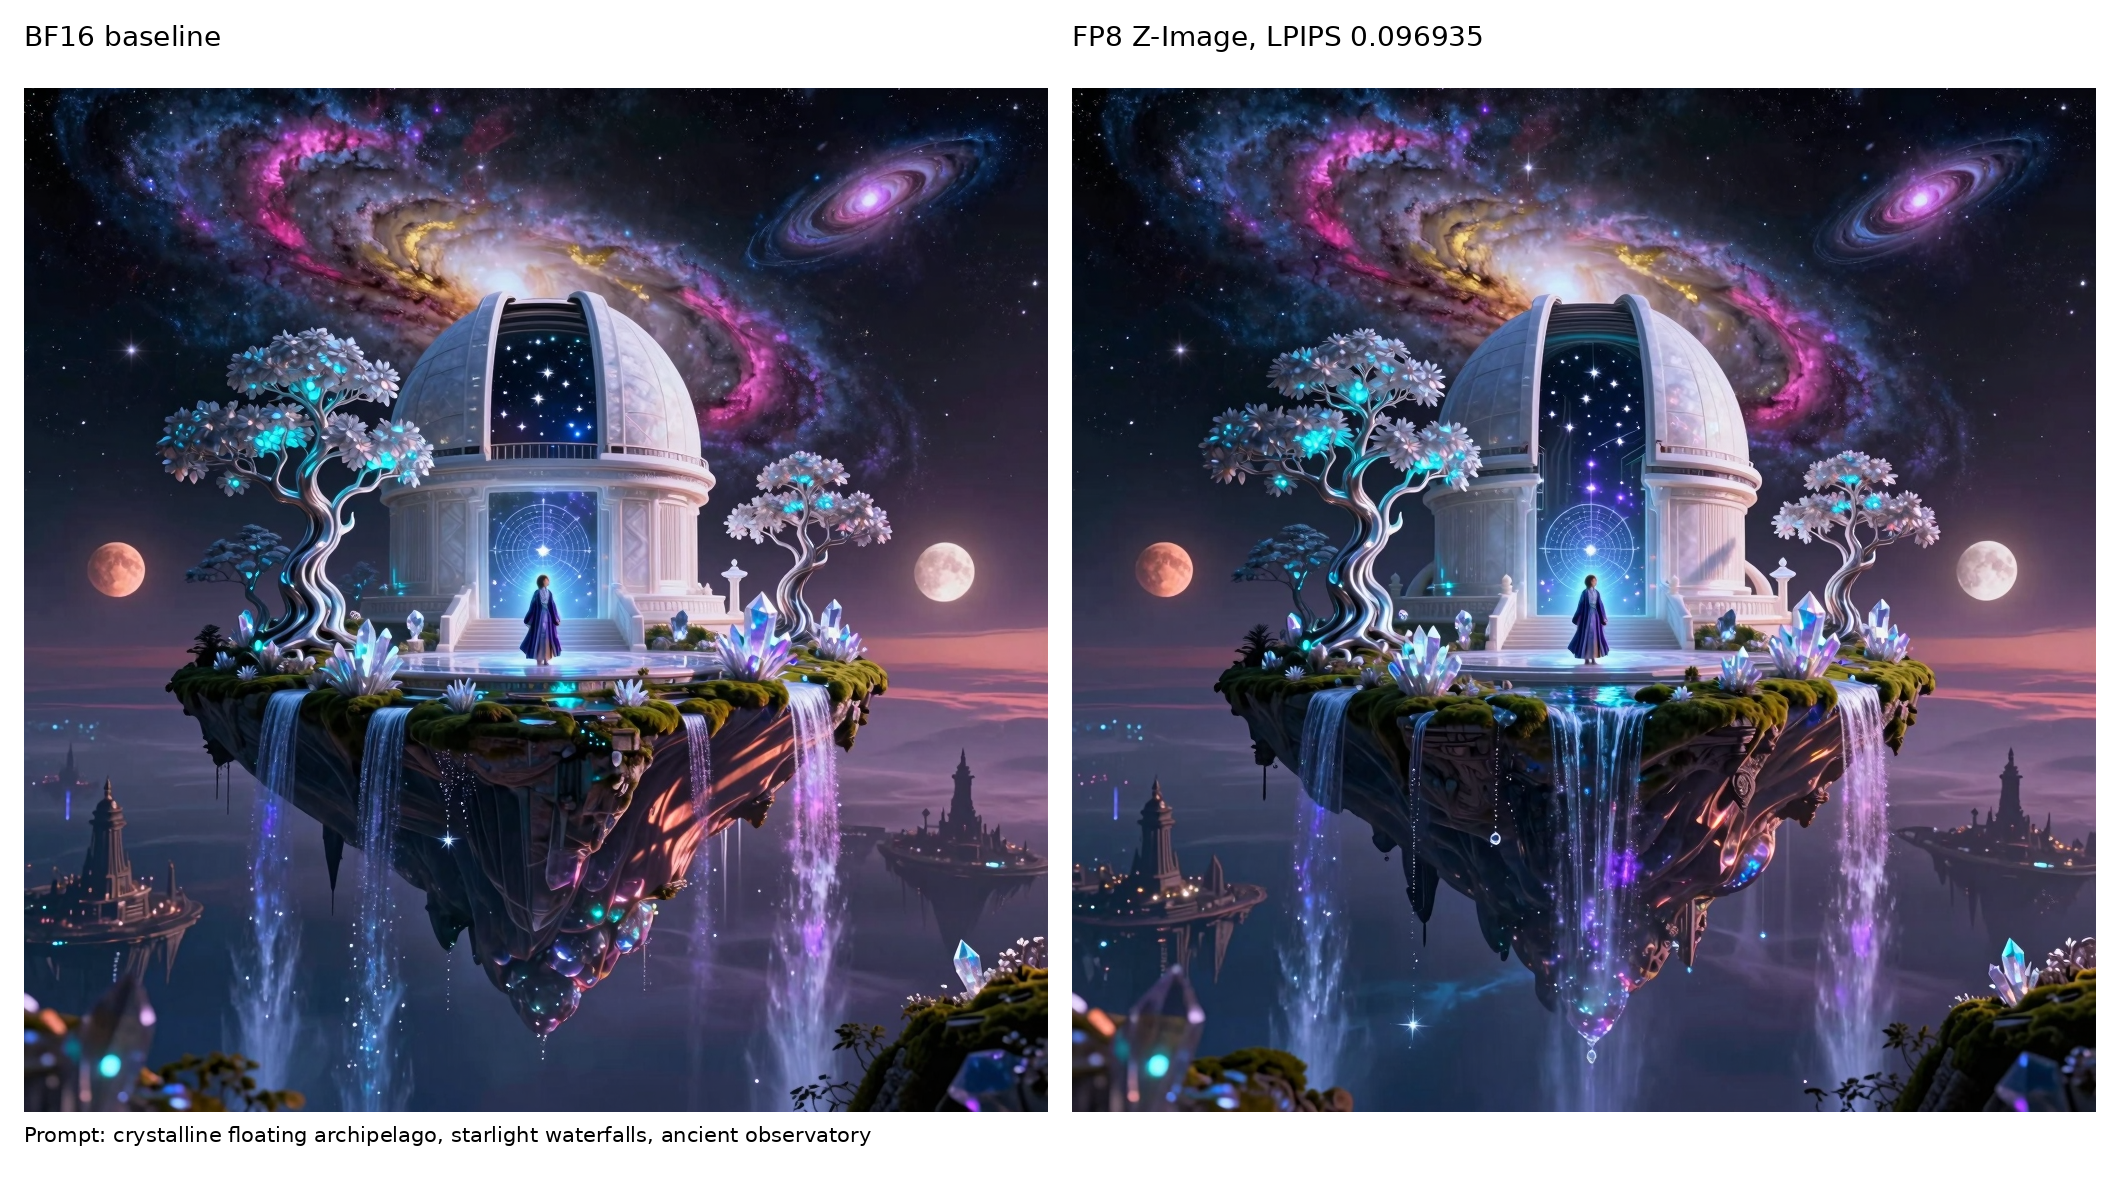
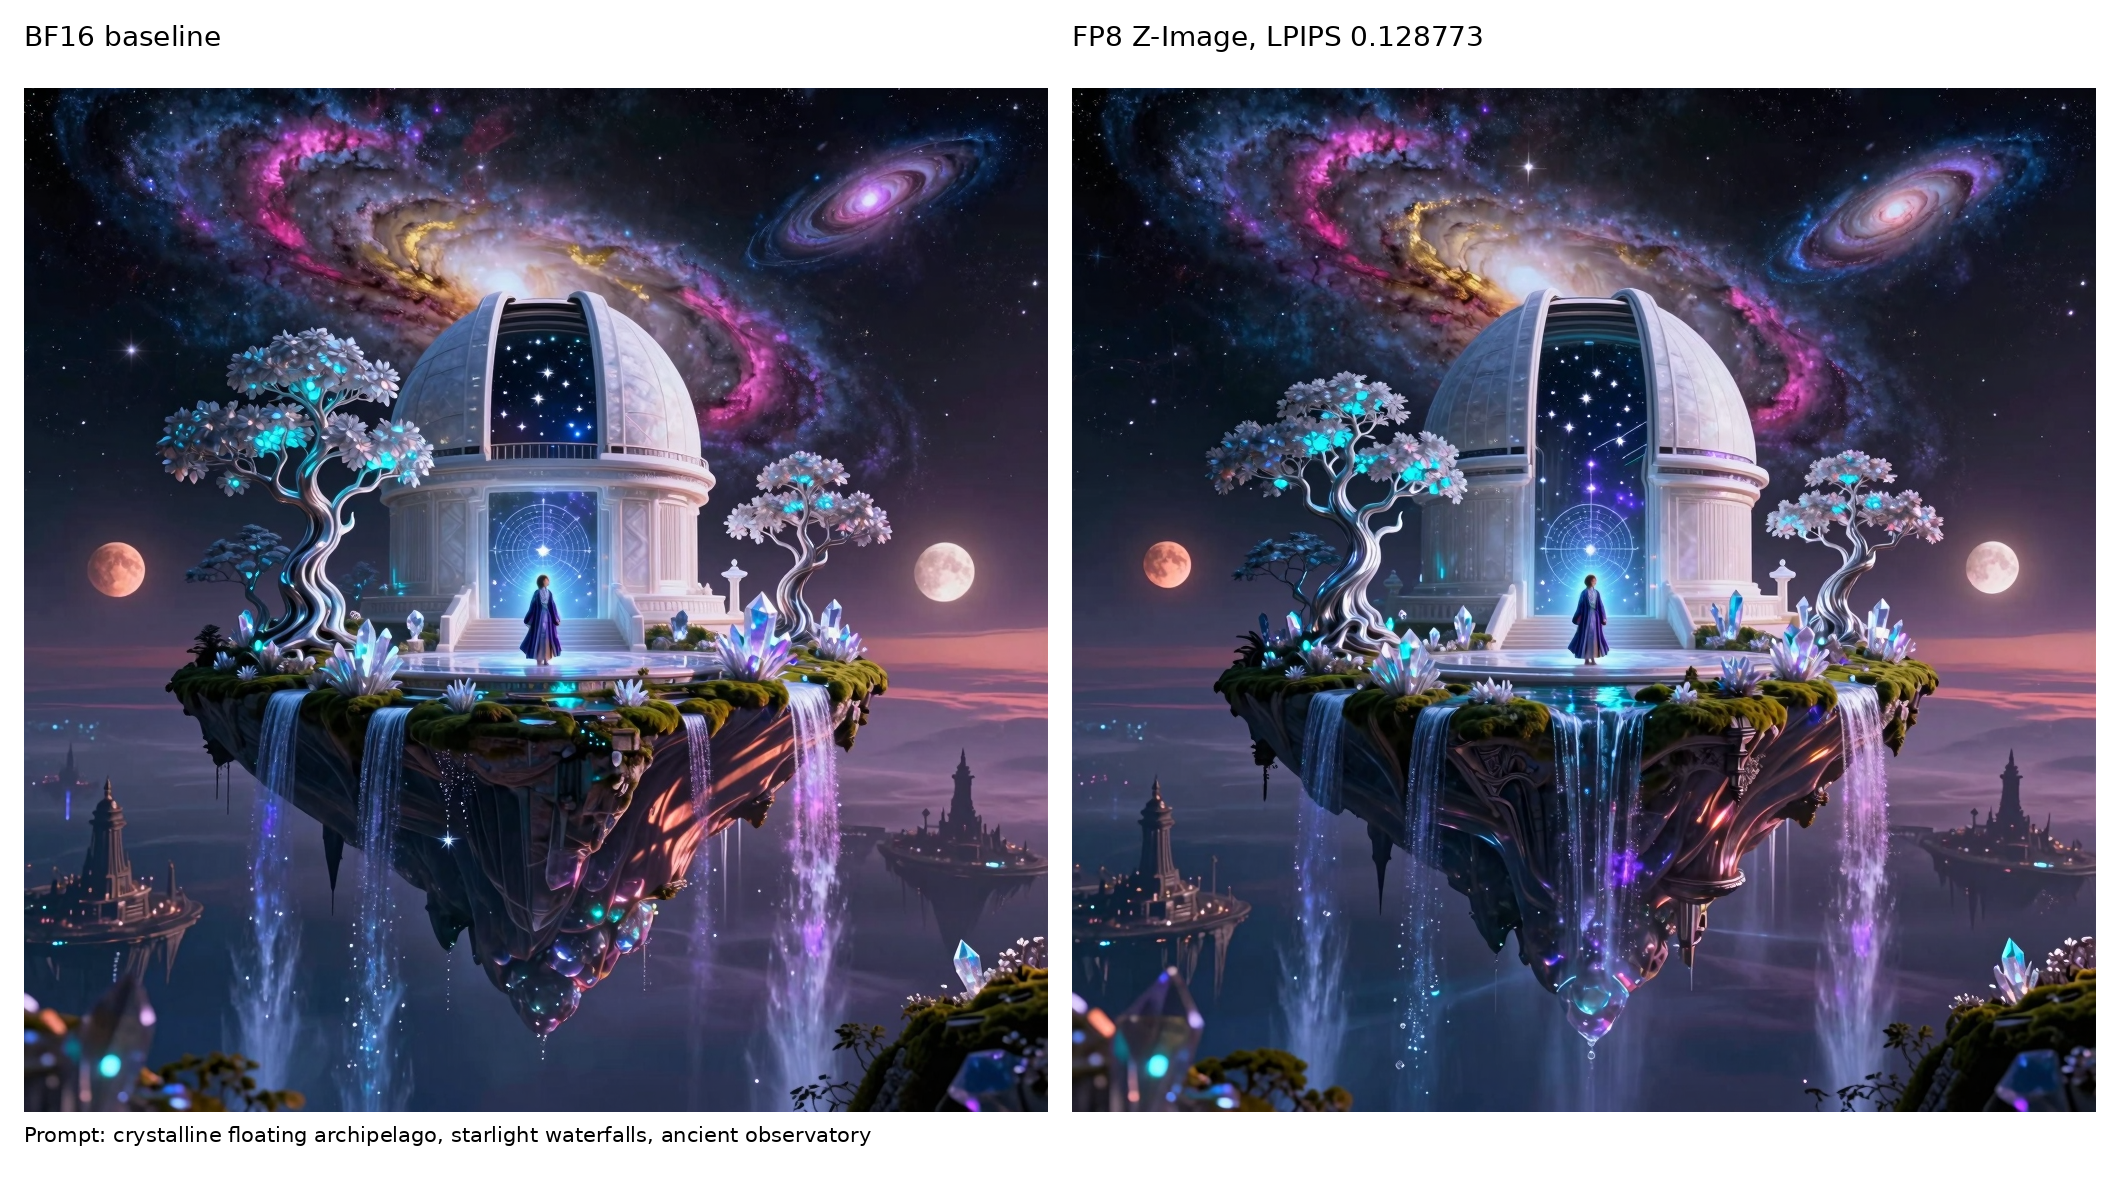
Use text encoder FP8 for Z-Image quality gate

diff --git a/tests/diffusion/quantization/test_quantization_quality.py b/tests/diffusion/quantization/test_quantization_quality.py
@@ -119,23 +119,33 @@ QUALITY_CONFIGS = [
         id="fp8_z_image",
         model="Tongyi-MAI/Z-Image-Turbo",
         quantization={
-            "transformer": {
-                "method": "fp8",
-                "ignored_layers": [
-                    "img_mlp",
-                    *[
-                        f"layers.{layer_id}.{suffix}"
-                        for layer_id in range(15, 30)
-                        for suffix in (
-                            "attention.to_qkv",
-                            "attention.to_out.0",
-                            "feed_forward.w13",
-                            "feed_forward.w2",
-                        )
-                    ],
+            "method": "fp8",
+            "ignored_layers": [
+                "img_mlp",
+                *[
+                    f"layers.{layer_id}.{suffix}"
+                    for layer_id in range(15, 30)
+                    for suffix in (
+                        "attention.to_qkv",
+                        "attention.to_out.0",
+                        "feed_forward.w13",
+                        "feed_forward.w2",
+                    )
                 ],
-            },
-            "default": None,
+                *[
+                    f"model.layers.{layer_id}.{suffix}"
+                    for layer_id in range(28, 36)
+                    for suffix in (
+                        "self_attn.q_proj",
+                        "self_attn.k_proj",
+                        "self_attn.v_proj",
+                        "self_attn.o_proj",
+                        "mlp.gate_proj",
+                        "mlp.up_proj",
+                        "mlp.down_proj",
+                    )
+                ],
+            ],
         },
         task="t2i",
         prompt=(
@@ -159,7 +169,7 @@ QUALITY_CONFIGS = [
             "starlight waterfalls. Ethereal, melancholic, and transcendent mood—like a moment of quiet revelation "
             "at the edge of existence."
         ),
-        max_lpips=0.10,
+        max_lpips=0.15,
         num_inference_steps=20,
     ),
     QualityTestConfig(

diff --git a/tests/diffusion/quantization/test_fp8_config.py b/tests/diffusion/quantization/test_fp8_config.py
@@ -213,35 +213,6 @@ def test_integration_per_component():
     assert config.quantization_config.component_configs["vae"] is None
 
 
-def test_recursive_replace_linear_resolves_component_quantization(monkeypatch):
-    from vllm_omni.diffusion.data import OmniDiffusionConfig
-    from vllm_omni.diffusion.models import utils
-
-    model = nn.Module()
-    model.text_encoder = nn.Sequential(nn.Linear(2, 2))
-    model.transformer = nn.Sequential(nn.Linear(2, 2))
-    config = OmniDiffusionConfig(
-        model="test",
-        quantization_config={
-            "transformer": {"method": "fp8"},
-            "default": None,
-        },
-    )
-
-    calls = {}
-
-    def fake_replace(linear, style, quant_config, *, prefix):
-        calls[prefix] = quant_config
-        return nn.Identity()
-
-    monkeypatch.setattr(utils, "replace_linear_class", fake_replace)
-
-    utils.recursive_replace_linear(model, config)
-
-    assert calls["text_encoder.0"] is None
-    assert calls["transformer.0"].get_name() == "fp8"
-
-
 def test_transformer_config_auto_detects_modelopt_fp8():
     from vllm.model_executor.layers.quantization.modelopt import ModelOptFp8Config
 

diff --git a/vllm_omni/diffusion/models/utils.py b/vllm_omni/diffusion/models/utils.py
@@ -19,7 +19,6 @@ from vllm.model_executor.models.utils import maybe_prefix
 
 from vllm_omni.diffusion.data import OmniDiffusionConfig
 from vllm_omni.quantization import build_quant_config
-from vllm_omni.quantization.component_config import ComponentQuantizationConfig
 
 if TYPE_CHECKING:
     from transformers import PretrainedConfig, PreTrainedModel
@@ -88,17 +87,7 @@ def recursive_replace_linear(model: nn.Module, od_config: OmniDiffusionConfig):
             # Replace modules as needed
             if isinstance(child_module, nn.Linear):
                 style = "replicate"
-                child_quant_config = (
-                    quant_config.resolve(qual_name)
-                    if isinstance(quant_config, ComponentQuantizationConfig)
-                    else quant_config
-                )
-                new_module = replace_linear_class(
-                    child_module,
-                    style,
-                    child_quant_config,
-                    prefix=qual_name,
-                )
+                new_module = replace_linear_class(child_module, style, quant_config, prefix=qual_name)
             else:
                 _recursive_replace(child_module, prefix=qual_name)
             if new_module is not child_module:

diff --git a/vllm_omni/diffusion/models/z_image/pipeline_z_image.py b/vllm_omni/diffusion/models/z_image/pipeline_z_image.py
@@ -45,7 +45,6 @@ from vllm_omni.diffusion.request import OmniDiffusionRequest
 from vllm_omni.model_executor.model_loader.weight_utils import (
     download_weights_from_hf_specific,
 )
-from vllm_omni.quantization.component_config import ComponentQuantizationConfig
 
 logger = logging.get_logger(__name__)  # pylint: disable=invalid-name
 
@@ -219,10 +218,7 @@ class ZImagePipeline(nn.Module, DiffusionPipelineProfilerMixin):
 
         vae_config = DistributedAutoencoderKL.load_config(model, subfolder="vae", local_files_only=local_files_only)
         self.vae = DistributedAutoencoderKL.from_config(vae_config).to(self._execution_device)
-        quant_config = od_config.quantization_config
-        if isinstance(quant_config, ComponentQuantizationConfig):
-            quant_config = quant_config.resolve("transformer")
-        self.transformer = ZImageTransformer2DModel(quant_config=quant_config)
+        self.transformer = ZImageTransformer2DModel(quant_config=od_config.quantization_config)
         self.tokenizer = AutoTokenizer.from_pretrained(model, subfolder="tokenizer", local_files_only=local_files_only)
 
         # Note: Context parallelism is applied centrally in registry.initialize_model()

diff --git a/tests/diffusion/quantization/artifacts/fp8_z_image_quality/README.md b/tests/diffusion/quantization/artifacts/fp8_z_image_quality/README.md
@@ -14,27 +14,26 @@ Quantized config:
 
 ```python
 {
-    "transformer": {
-        "method": "fp8",
-        "ignored_layers": [
-            "img_mlp",
-            "layers.15..29.{attention.to_qkv,attention.to_out.0,feed_forward.w13,feed_forward.w2}",
-        ],
-    },
-    "default": None,
+    "method": "fp8",
+    "ignored_layers": [
+        "img_mlp",
+        "layers.15..29.{attention.to_qkv,attention.to_out.0,feed_forward.w13,feed_forward.w2}",
+        "model.layers.28..35.{self_attn.q_proj,self_attn.k_proj,self_attn.v_proj,self_attn.o_proj,"
+        "mlp.gate_proj,mlp.up_proj,mlp.down_proj}",
+    ],
 }
 ```
 
-Result: passed with `max_lpips=0.10`.
+Result: passed with `max_lpips=0.15`.
 
 | Metric | Value |
 |--------|-------|
-| LPIPS | 0.096935 |
-| PSNR | 21.893253 dB |
-| MAE | 0.037334 |
+| LPIPS | 0.128773 |
+| PSNR | 20.125577 dB |
+| MAE | 0.047712 |
 
-Timing from the scan run for this config: BF16 `2.297244s`, FP8 `2.062006s`
-(`0.8976x` of BF16 generation time).
+This uses regular online FP8 quantization for the text encoder, with only the final
+8 text-encoder blocks routed through `ignored_layers` for BF16 fallback.
 
 ## Comparison
 